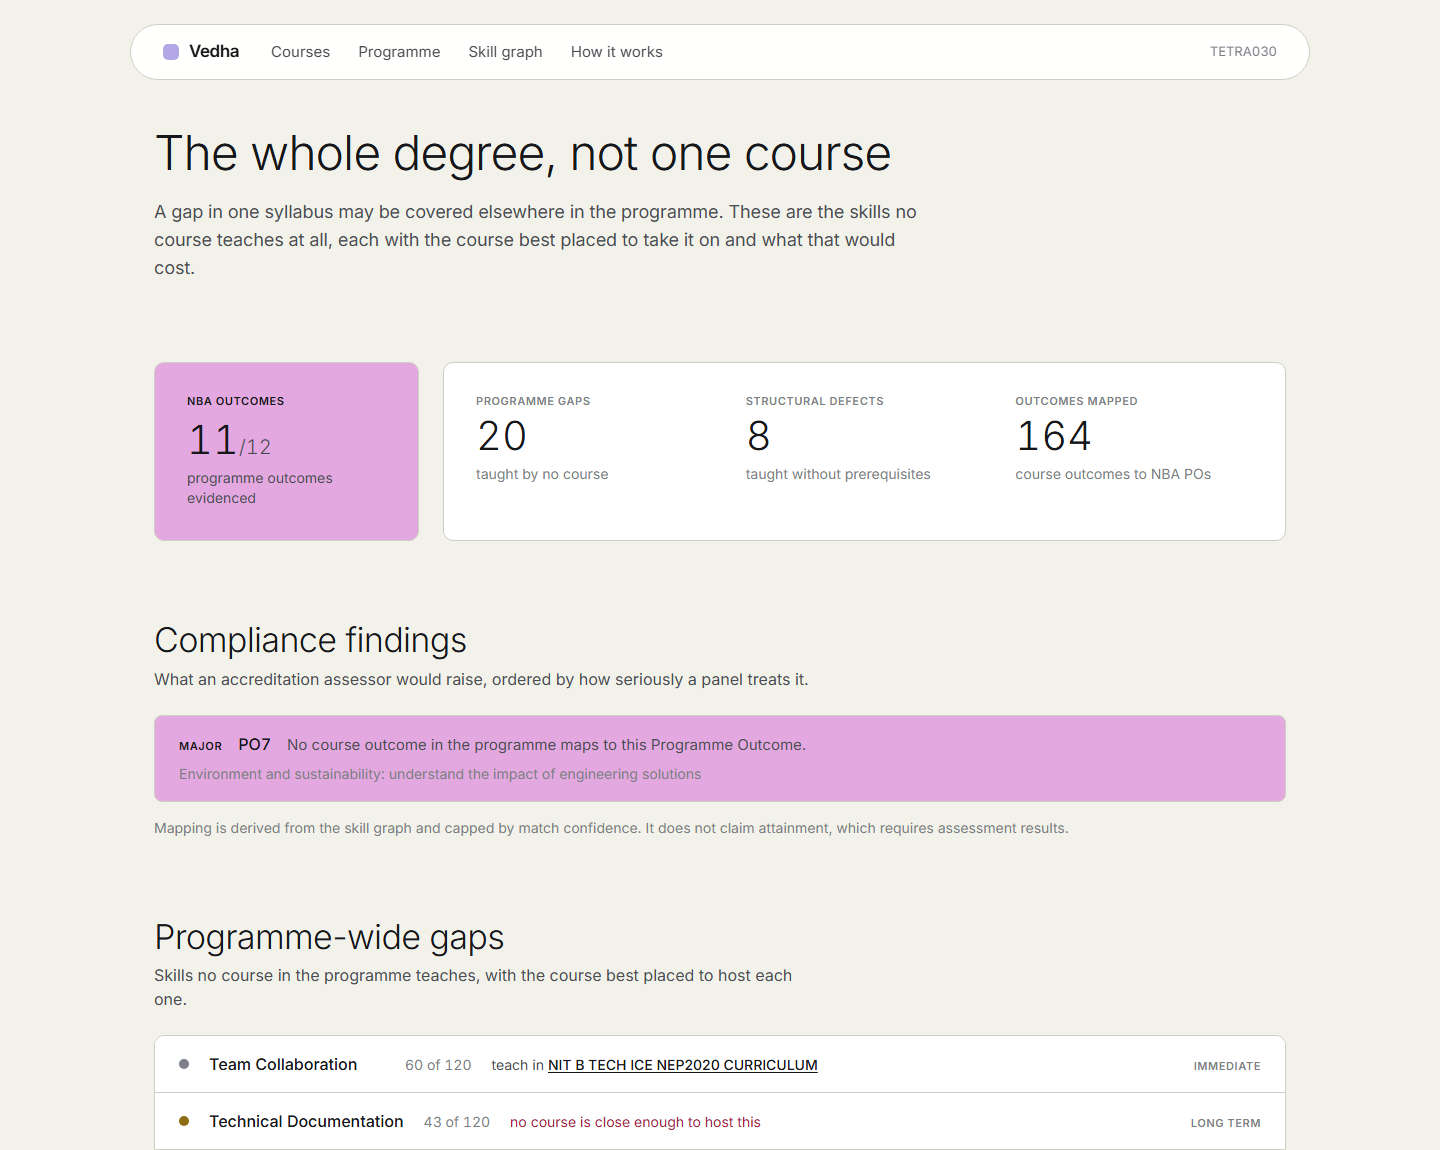
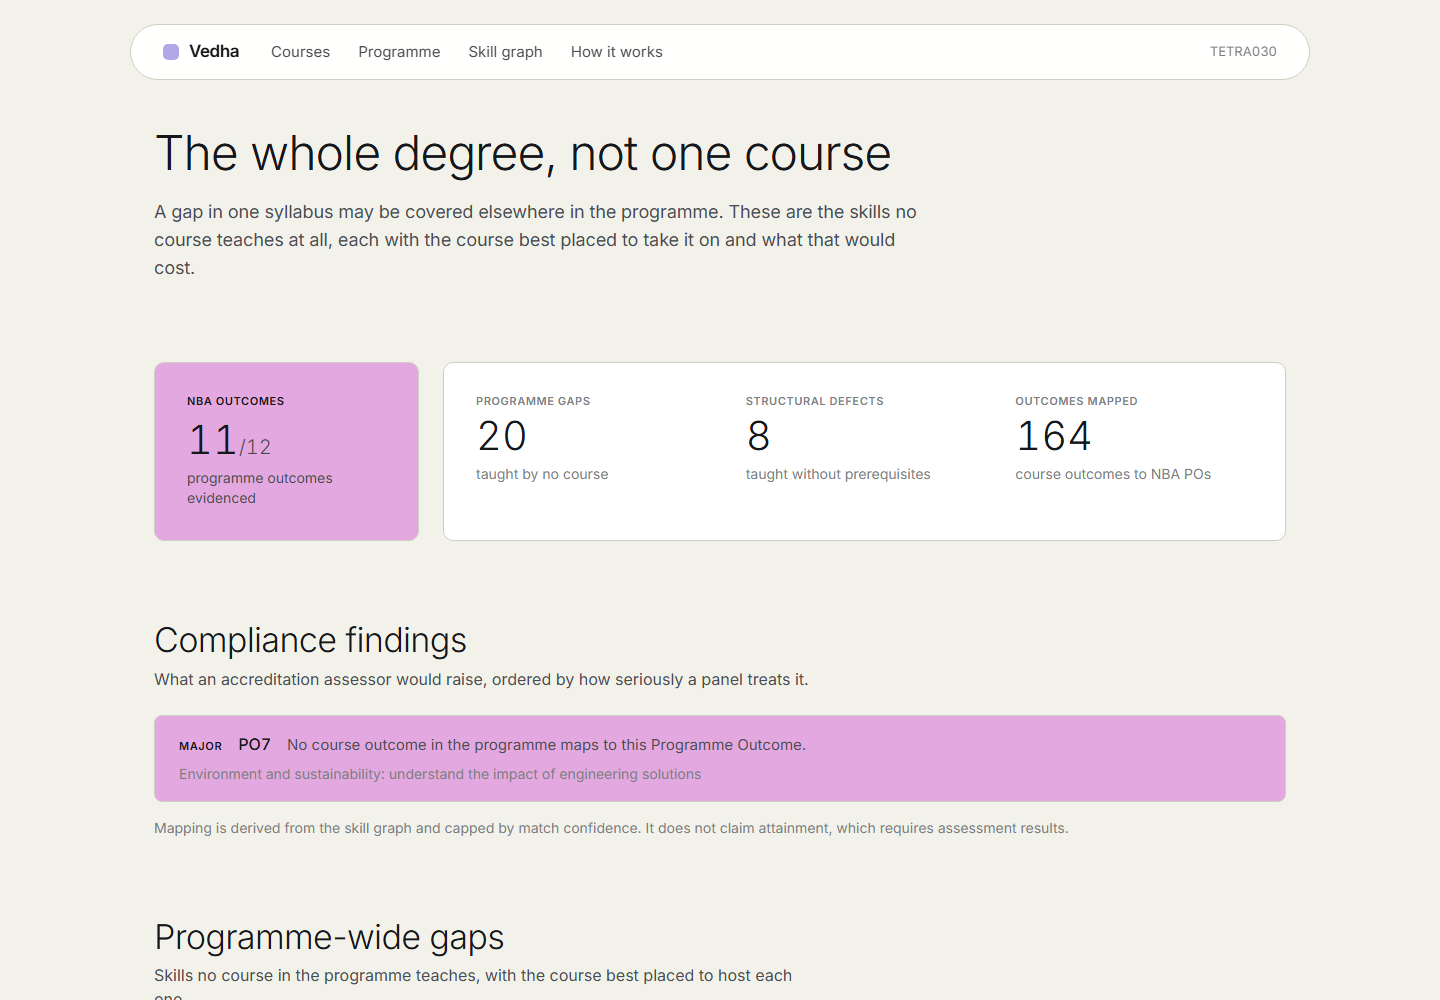
TETRA030: Rewrite the README to cover everything that now exists
The README had fallen well behind the product. It described eight BCA
courses when there are forty-two across four institutions, claimed a
hundred and thirty-two tests when there are a hundred and sixty-one, and
made no mention of the teaching sequence, the programme-level analysis, or
the accreditation mapping at all.

Adds two architecture diagrams beyond the pipeline flow. One shows how
ChromaDB and Claude actually compose: the vector index shortlists sixty
candidates before Claude sees the document, and the taxonomy re-validates
whatever comes back, so a model ignoring its instructions still cannot put
an unknown skill into the graph. The other is the graph schema, where
PREREQUISITE_OF is called out as the edge everything else depends on.

New screenshots for the programme view and the teaching sequence, both
captured from the running application. The full API surface is documented
as a table, since it has grown to thirteen endpoints.

Every figure was checked against the data before committing rather than
carried forward: taxonomy counts against skills.json, syllabus count
against the directory, posting count against the snapshot, test file count
against the tests directory. All five images resolve and all three mermaid
diagrams parse.

diff --git a/README.md b/README.md
@@ -6,8 +6,6 @@
 
 Higher education curricula lag three to five years behind market demand. Institutions have no automated way to audit a syllabus against live job market data, so graduates earn top grades while carrying severe skill gaps.
 
-Vedha ingests real syllabi and real job postings, maps both onto a shared skill ontology in Neo4j, quantifies the gap with evidence, and generates syllabus modifications a professor can adopt without redesigning the course.
-
 ![Vedha landing page](docs/screenshots/landing.png)
 
 *The panel on the right is a live API call, not an image. Those are real posting counts against a real syllabus.*
@@ -27,7 +25,7 @@ A keyword diff reports that a syllabus lacks Retrieval Augmented Generation. Tha
 | 3 | Data Structures, Deep Learning |
 | 4 | Machine Learning, Optimization, Programming Fundamentals |
 
-A recommendation becomes *"you cannot teach RAG until this chain is covered, in this order"* rather than *"you are missing RAG"*. Adding Kubernetes to a course already teaching Docker is one hop and cheap; adding RAG to a course covering none of its prerequisites is a different conversation entirely.
+A recommendation becomes *"you cannot teach RAG until this chain is covered, in this order"* rather than *"you are missing RAG"*. Adding Kubernetes to a course already teaching Docker is one hop and cheap; adding RAG to a course covering none of its prerequisites is a different conversation.
 
 That is also the answer to **why a graph database**: it is a variable-length path search, which a relational schema answers only with a recursive query that degrades with every hop.
 
@@ -37,57 +35,78 @@ No mock data, no seeded fixtures, no hardcoded fallback skill lists.
 
 | | Source |
 |---|---|
-| 305 job postings | Fetched from Arbeitnow and Remotive, committed as a snapshot |
-| 8 course syllabi | Actual MSU Baroda BCA documents, split from the semester PDF |
+| 120 job postings analysed | Fetched from Arbeitnow and Remotive, committed as a snapshot |
+| 42 course syllabi | Real documents from four institutions |
 | 438 skills, 1474 aliases | Hand-curated taxonomy, every alias collision rejected at load time |
-| Every gap figure | Computed from the graph at request time |
-
-The screenshots below are of the running application against that data. The hero panel on the landing page is a live API call, not an image.
+| Every gap and score | Computed from the graph at request time |
 
 ---
 
-## Audited against a real curriculum
+## Four institutions, three disciplines
 
-Eight actual BCA course syllabi from The Maharaja Sayajirao University of Baroda, compared against 150 real job postings.
+The corpus spans computing, civil, and electronics engineering, which demonstrates the tool is not specific to one degree or even one field.
 
-| Alignment | Course | Teaches | Gaps |
-|---|---|---|---|
-| 50.0 | Web Application Development | 10 | 73 |
-| 22.8 | Oracle DBA | 8 | 70 |
-| 22.7 | Artificial Intelligence | 13 | 71 |
-| 19.7 | Software Engineering 2 | 10 | 71 |
-| 17.4 | Application Frameworks in .NET | 8 | 72 |
-| 13.6 | Mobile Application Development | 8 | 71 |
-| 11.4 | Unix Systems Programming | 9 | 72 |
-| 7.8 | Course Outcome (programme-level) | 5 | 71 |
+| Institution | Programme | Courses |
+|---|---|---|
+| MSU Baroda | BCA | 8 |
+| NIT Tiruchirappalli | B.Tech Civil Engineering | 27 |
+| NIT Tiruchirappalli | B.Tech Electronics and Communication | 2 |
+| NIT Tiruchirappalli | B.Tech Instrumentation and Control | 3 |
+| PDPU | B.Tech Computer Engineering | 2 |
 
-Extraction is verifiable rather than asserted. The Artificial Intelligence syllabus yields Machine Learning, Deep Learning, Computer Vision, Natural Language Processing, and Reinforcement Learning. Web Application Development yields JavaScript, Node.js, MongoDB, REST APIs, and Express.
-
-### Reading the alignment score
-
-Each course is scored against demand **in its own subject area**, not against the whole tech market. This matters: a single course covers three to twelve percent of total market demand, which is entirely normal, but presenting that as a score out of 100 would imply a failing grade for every course ever written.
-
-Every report carries a `scored_against` field naming the subject areas used as the denominator, so the number can be interpreted rather than taken on faith.
+Course code formats differ by institution, so the splitter detects the pattern per document rather than assuming one.
 
 ---
 
-## Live gap report
+## What it does
+
+### 1. Course gap report
 
 Every gap cites real posting counts and its distance from what the course already teaches.
 
 ![Course gap report](docs/screenshots/course-gaps.png)
 
----
+### 2. Teaching sequence
 
-## Skill ontology graph
+A ranked gap list says what is missing. It does not say what to do on Monday, because some gaps cannot be taught until others are in place. Ranking by demand alone would schedule Amazon Web Services before Cloud Computing.
 
-Node colour is the skill category, matching the tags used throughout the gap reports. A dark ring marks a skill the curriculum already teaches. Node size is market demand. Clicking a node returns its prerequisite chain.
+![Teaching sequence](docs/screenshots/teaching-sequence.png)
+
+The stages come from a topological layering of the prerequisite graph. Nothing in that ordering is hardcoded.
+
+### 3. Programme-level analysis
+
+A gap in one syllabus may be covered elsewhere in the degree. These are the skills **no course teaches at all**, each with the course best placed to host it and what that would cost.
+
+![Programme analysis](docs/screenshots/programme.png)
+
+It also finds **structural defects**: skills the curriculum teaches whose prerequisites nothing covers. On the real corpus this finds CSS taught without HTML, and Angular taught without TypeScript. Those are curriculum defects rather than market gaps.
+
+### 4. NBA accreditation documentation
+
+Indian engineering programmes are accredited against twelve Programme Outcomes fixed by the National Board of Accreditation. Every course must map its Course Outcomes to those POs with a correlation level, and departments assemble that matrix by hand across dozens of courses.
+
+**Run against this corpus it maps 164 course outcomes and finds a genuine major non-conformity: no course across all 42 evidences PO7, environment and sustainability.**
+
+Correlation strength is capped by match confidence. A skill matched at 0.5 cannot claim a substantial correlation, and matches below the confidence floor produce no claim at all. An inflated matrix is worse than a sparse one: an assessor who finds a single unsupported cell distrusts every other one.
+
+It deliberately does **not** claim attainment, which requires assessment results from a university examination system.
+
+### 5. Skill ontology graph
+
+Node colour is the skill category. A dark ring marks a skill the curriculum already teaches. Node size is market demand. Clicking a node returns its prerequisite chain.
 
 ![Skill graph](docs/screenshots/skill-graph.png)
+
+### 6. Syllabus augmenter
+
+Claude proposes modifications a professor can adopt without redesigning the course: new outcomes, case studies, tools mapped to existing units, and project briefs. Prerequisite distance is passed to the model, so it does not propose advanced topics as though a course could absorb them directly.
 
 ---
 
 ## Architecture
+
+### Pipeline
 
 Six stages, each with one responsibility and a stable interface, so any stage can be replaced without touching its neighbours.
 
@@ -99,13 +118,56 @@ flowchart LR
     D --> E[Score]
     E --> F[Augment]
 
-    A -.- A1[PDF and DOCX syllabi<br/>job posting snapshot]
-    B -.- B1[Claude<br/>taxonomy-constrained]
-    C -.- C1[ChromaDB<br/>local embeddings]
-    D -.- D1[scored pairs]
-    E -.- E1[Neo4j Cypher<br/>multi-hop traversal]
-    F -.- F1[Claude<br/>adoptable additions]
+    A -.- A1["PDF and DOCX syllabi<br/>job posting snapshot"]
+    B -.- B1["Claude<br/>taxonomy-constrained"]
+    C -.- C1["ChromaDB<br/>local embeddings"]
+    D -.- D1["scored pairs"]
+    E -.- E1["Neo4j Cypher<br/>multi-hop traversal"]
+    F -.- F1["Claude<br/>adoptable additions"]
 ```
+
+### How the AI components fit together
+
+The two mandated AI components are not independent. ChromaDB narrows the problem before Claude sees it, which is what makes extraction affordable, and the taxonomy has the final say over both.
+
+```mermaid
+flowchart TB
+    DOC["Document<br/>syllabus or job posting"]
+    TAX["Skill taxonomy<br/>438 canonical skills"]
+
+    DOC --> CHROMA
+    TAX --> CHROMA
+
+    CHROMA["ChromaDB<br/>local sentence-transformers<br/>shortlists 60 candidates"]
+    CHROMA --> CLAUDE
+
+    CLAUDE["Claude<br/>chooses from the shortlist<br/>constrained, cannot invent"]
+    CLAUDE --> VALIDATE
+
+    VALIDATE{"Taxonomy<br/>re-validation"}
+    VALIDATE -->|"in taxonomy"| GRAPH["Neo4j<br/>TEACHES and REQUIRES edges"]
+    VALIDATE -->|"not in taxonomy"| DROP["Discarded"]
+
+    GRAPH --> QUERY["Multi-hop gap query"]
+    QUERY --> OUT["Gap report<br/>teaching sequence<br/>CO-PO matrix"]
+```
+
+**Why the shortlist matters.** Sending all 438 canonical names in every prompt would be roughly 1.8M tokens across the corpus. Shortlisting first cuts prompt size by about ninety percent, and the re-validation step means a model that ignores the allowed list still cannot put an unknown skill into the graph.
+
+### Graph schema
+
+```mermaid
+erDiagram
+    Course ||--o{ Outcome : HAS_OUTCOME
+    Outcome }o--o{ Skill : TEACHES
+    JobPosting }o--o{ Skill : REQUIRES
+    JobPosting }o--|| Employer : POSTED_BY
+    Skill }o--o{ Skill : PREREQUISITE_OF
+```
+
+`TEACHES` carries a confidence, `REQUIRES` carries an importance, and `PREREQUISITE_OF` is the edge that makes everything else possible. Without it the system can only detect gaps; with it, it can sequence them.
+
+### Stages
 
 | Stage | Input | Output | Implementation |
 |---|---|---|---|
@@ -149,7 +211,8 @@ npm run dev
 ```
 
 - Landing page: `http://localhost:3000`
-- Curriculum audit: `http://localhost:3000/dashboard`
+- Course audit: `http://localhost:3000/dashboard`
+- Programme and accreditation: `http://localhost:3000/programme`
 - Skill graph: `http://localhost:3000/graph`
 - API documentation: `http://localhost:8000/docs`
 - Neo4j Browser: `http://localhost:7474` (neo4j / curricualign)
@@ -169,25 +232,45 @@ docker compose exec backend pytest tests/ -v
 
 ---
 
+## API
+
+| Method | Path | Purpose |
+|---|---|---|
+| GET | `/api/courses` | Courses with alignment scores |
+| GET | `/api/courses/{code}/gaps` | Ranked gap report with evidence |
+| GET | `/api/courses/{code}/roadmap` | Teaching sequence by prerequisite order |
+| POST | `/api/augment/{code}` | Claude-generated syllabus modifications |
+| GET | `/api/programme` | Programme-wide gaps with placement |
+| GET | `/api/programme/defects` | Skills taught without prerequisites |
+| GET | `/api/programme/placement/{skill}` | Which course should teach a skill |
+| POST | `/api/programme/audit` | Record a market snapshot, report drift |
+| GET | `/api/accreditation/matrix` | CO-PO correlation matrix |
+| GET | `/api/accreditation/findings` | Compliance findings by severity |
+| GET | `/api/graph` | Skill graph nodes and edges |
+| GET | `/api/market/trends` | Demand over time |
+| POST | `/api/syllabi` | Upload a syllabus |
+
+---
+
 ## Engineering decisions worth defending
 
 **The taxonomy is a hard constraint, not a suggestion.** Skill extraction links to a curated canonical list and cannot invent nodes. Without this, `ML` and `Machine Learning` become separate skills and every downstream number is meaningless. Ambiguous aliases fail at load time rather than resolving to whichever skill loaded last; that gate rejected three real collisions during the build.
 
-**Extraction cost is managed by the vector index.** Sending all 438 canonical names in every prompt would be roughly 1.8M tokens across the corpus. ChromaDB shortlists 60 candidates per document and Claude chooses from the shortlist, cutting prompt size by about ninety percent. That is the two mandated components working together.
-
 **Every Claude call is cached by content hash.** Verified: with the API key blanked entirely, a previously seen posting still returned all 15 extracted skills in 0.17 seconds. An expired key during evaluation degrades to instant cached results rather than a broken page.
+
+**Courses are scored against their own subject area.** One course covers three to twelve percent of total tech demand, which is normal. Presenting that as a score out of 100 would imply a failing grade for every course ever written, so the denominator is demand within the course's own field and every report names what it was scored against.
 
 **Soft skills are down-weighted, not censored.** Ranking by raw posting frequency put Team Collaboration and Mentoring above every technical gap. Both are genuine market signal, but "add teamwork to your database course" is not advice a curriculum committee can act on.
 
-**Colour carries information.** Each skill category owns a block colour, so a gap card, a category tag, and a graph node all agree on what "cloud" or "data" looks like. Colour that shifts between views is decoration; colour that holds is information. The design system is documented in `frontend/DESIGN.md`.
+**Colour carries information.** Each skill category owns a block colour, so a gap card, a category tag, and a graph node all agree on what "cloud" or "data" looks like. The design system is documented in `frontend/DESIGN.md`.
 
 ---
 
 ## Bugs the tests caught
 
-Each of these produced a plausible-looking wrong number that would have survived a demo unnoticed.
+Each produced a plausible-looking wrong number that would have survived a demo unnoticed.
 
-**The health score ran backwards.** Adding twenty trivial gaps to one critical gap raised the score from 5 to 73 — making a curriculum worse made it look better. A normalized weighted mean was letting a long tail dilute the average. Replaced with an unnormalized rank-decay penalty, so additional gaps can only lower the score.
+**The health score ran backwards.** Adding twenty trivial gaps to one critical gap raised the score from 5 to 73 — making a curriculum worse made it look better. A normalized weighted mean was letting a long tail dilute the average.
 
 **The similarity threshold accepted noise.** The floor was 0.35, guessed during planning. Measured against the real index:
 
@@ -196,19 +279,24 @@ Each of these produced a plausible-looking wrong number that would have survived
 | Genuine skill phrases | 0.643 - 0.776 |
 | Unrelated syllabus prose | 0.554 - 0.619 |
 
-At 0.35, *"the cafeteria serves lunch at noon"* matched Service Mesh at 0.565 and would have entered a gap report as a phantom skill with fabricated evidence. Recalibrated to 0.63, inside the separation gap, with `scripts/calibrate_threshold.py` reproducing the measurement.
+At 0.35, *"the cafeteria serves lunch at noon"* matched Service Mesh at 0.565 and would have entered a gap report as a phantom skill with fabricated evidence. Recalibrated to 0.63, with `scripts/calibrate_threshold.py` reproducing the measurement.
 
-**Every course scored the same.** All eight landed between 16 and 18 out of 100 with exactly 40 gaps — and that 40 was an artifact of a query limit every course hit, not a finding. Fixed by raising the limit, adding a demand floor that drops the long tail (43 of 170 demanded skills were named by a single posting), and scoring against each course's own subject area. The spread went from six points to forty-two.
+**Every course scored the same.** All eight landed between 16 and 18 out of 100 with exactly 40 gaps, and that 40 was an artifact of a query limit every course hit rather than a finding.
 
-**Neo4j raised on `shortestPath`** when a demanded skill was also a taught skill, because start and end resolved to the same node. Not an edge case: it happens for every skill the curriculum already covers, which is exactly what coverage measurement needs.
+**The accreditation matrix fabricated non-compliance.** Requesting the CO-PO matrix for a course that did not exist returned a document reporting all twelve programme outcomes as uncovered. That is the most alarming finding the system can produce, generated for a course that was never in the database.
+
+**CORS silently broke the augmenter.** The button hung forever with no error, because the backend allowed only `localhost:3000` while the browser was on `127.0.0.1:3000`. The blocked request surfaced nothing at all.
+
+**Neo4j raised on `shortestPath`** when a demanded skill was also a taught skill, because start and end resolved to the same node.
 
 ---
 
 ## Honest limitations
 
-- **Embeddings do not encode negation.** *"Finding patterns without labelled examples"* retrieves Supervised Learning, the exact opposite of the right answer. This is why exact taxonomy resolution runs first and vector hits never override a certain alias match.
-- **The job corpus spans about one month.** Free job APIs serve current listings only, so month-granularity trends work but a multi-year demand forecast does not.
-- **Gap scoring weights are a first estimate**, tuned by judgment. The similarity threshold, by contrast, is measured and reproducible. Tests pin behaviour rather than constants, so the weights stay tunable.
+- **Embeddings do not encode negation.** *"Finding patterns without labelled examples"* retrieves Supervised Learning, the exact opposite. This is why exact taxonomy resolution runs first and vector hits never override a certain alias match.
+- **The job corpus spans about one month.** Free job APIs serve current listings only, so month-granularity trends work and a multi-year forecast does not.
+- **Accreditation mapping is not attainment.** It derives which outcomes evidence which POs. Attainment needs assessment results the system does not have.
+- **Gap scoring weights are a first estimate**, tuned by judgment. The similarity threshold, by contrast, is measured and reproducible. Tests pin behaviour rather than constants.
 - **Scanned PDFs without a text layer are rejected** rather than run through OCR.
 
 ---
@@ -216,17 +304,17 @@ At 0.35, *"the cafeteria serves lunch at noon"* matched Service Mesh at 0.565 an
 ## Repository
 
 ```
-backend/app/taxonomy/    canonical skill taxonomy and alias resolver
-backend/app/pipeline/    the six pipeline stages
-backend/app/db/          Neo4j schema, writer, and gap queries
-backend/app/api/         FastAPI endpoints
-backend/tests/           132 tests
-frontend/app/            four screens
-frontend/DESIGN.md       design system reference
-scripts/                 job fetching and threshold calibration
-docs/superpowers/        design specification and implementation plan
-data/syllabi/            eight real BCA course syllabi
-data/jobs_snapshot.json  305 real technical job postings
+backend/app/taxonomy/     canonical skill taxonomy and alias resolver
+backend/app/pipeline/     the six stages, plus programme, roadmap, accreditation
+backend/app/db/           Neo4j schema, writer, and gap queries
+backend/app/api/          FastAPI endpoints
+backend/tests/            161 tests across 14 files
+frontend/app/             landing, courses, programme, graph, method
+frontend/DESIGN.md        design system reference
+scripts/                  job fetching, curriculum splitting, threshold calibration
+docs/superpowers/         design specification and implementation plan
+data/syllabi/             42 real course syllabi
+data/jobs_snapshot.json   305 real technical job postings
 ```
 
 Job market data from [Arbeitnow](https://www.arbeitnow.com) and [Remotive](https://remotive.com).
